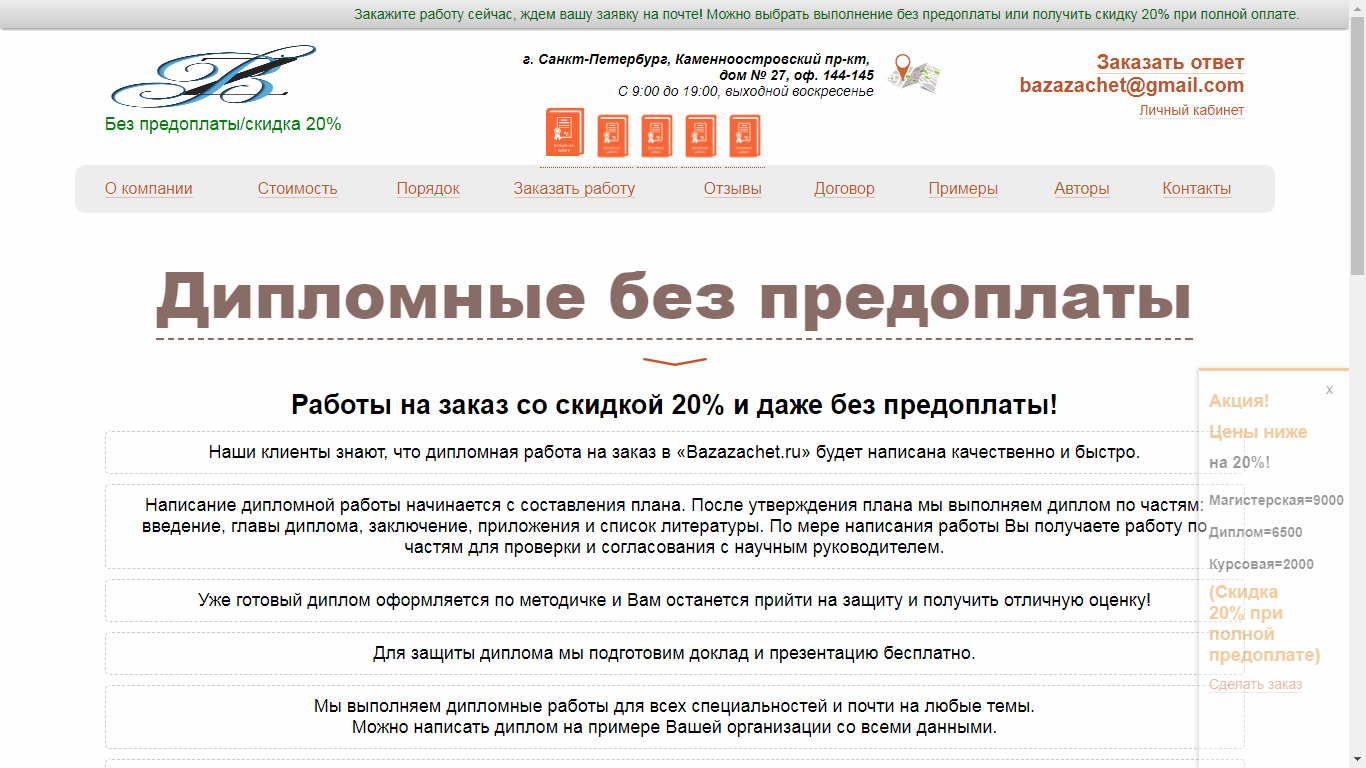
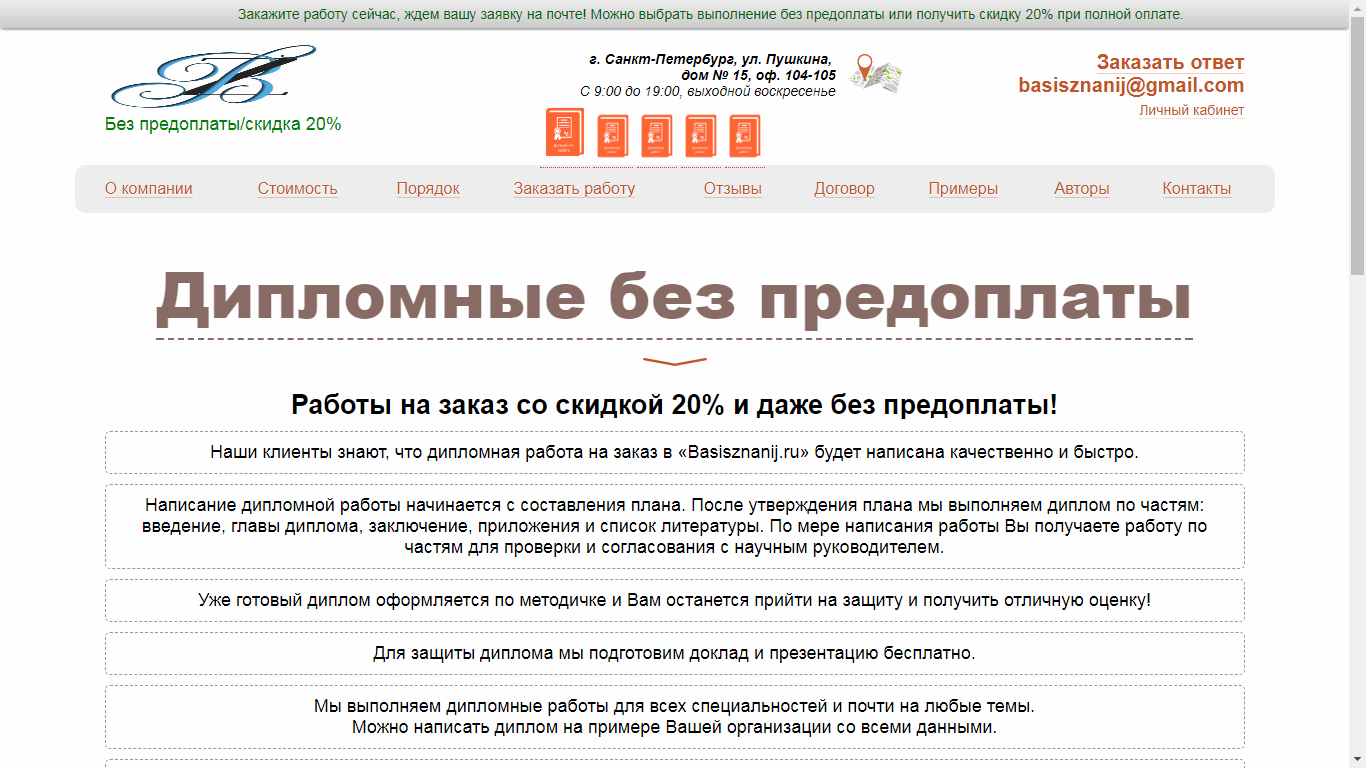
1

diff --git a/requisites.php b/requisites.php
@@ -3,18 +3,18 @@
 date_default_timezone_set('Europe/Moscow');
 $datetime_site = date("Y-m-d H:i:s");
 
-$main_name = 'http://vivamagister.ru';//'http://vivastudent.ru';
+$main_name = 'http://viva-magisters.ru';
 $donor_name = 'http://xn--d1acynfdde.xn--p1ai';
 $donor_site_name = 'Студенту.рф';
 $site_name = "Студенческие работы";
 
 
-$raskrutka_site_1 = 'bazazachet.ru';//'bazaznanij.com';
-$raskrutka_site_2 = 'Bazazachet';//'Bazaznanij';
-$raskrutka_site_3 = 'BAZAZACHET.RU';//'BAZAZNANIJ.COM';
-$raskrutka_site_4 = 'bazazachet_ru';//'bazaznanij_com';
+$raskrutka_site_1 = 'basisznanij.ru';//'bazaznanij.com';
+$raskrutka_site_2 = 'Basisznanij';//'Bazaznanij';
+$raskrutka_site_3 = 'BASISZNANIJ.RU';//'BAZAZNANIJ.COM';
+$raskrutka_site_4 = 'basisznanij_ru';//'bazaznanij_com';
 
-$raskrutka_site_adress = 'г. Санкт-Петербург</span>, <span itemprop="streetAddress">Каменноостровский пр-кт, дом № 27, oф. 144-145';
+$raskrutka_site_adress = 'г. Санкт-Петербург</span>, <span itemprop="streetAddress">ул. Пушкина, дом № 15, oф. 104-105';
 
 $yandex_google = '<meta name="yandex-verification" content="c501f550de5d69b6" />
 <meta name="google-site-verification" content="nYwj09iau7v7Ip_GwGkyoRskEb1IHPTjWfv-QUb9m2I" />

diff --git a/router.php b/router.php
@@ -90,8 +90,8 @@ $mainContent = str_replace('Rosdiplom', $raskrutka_site_2, $mainContent  );
 $mainContent = str_replace('г. Москва</span>, <span itemprop="streetAddress">ст.м. Метро Сухаревская, ул.Сретенка, д.27/29, стр 1',
     $raskrutka_site_adress, $mainContent  );
 $mainContent = str_replace('8-800-555-05-66: +7 (495) 987-41-36', 'Компания работает без телефонных менеджеров', $mainContent  );
-$mainContent = str_replace('/goto.php?url=cm9zZGlwbG9tLnN1', 'http://'.$raskrutka_site_1.'/', $mainContent  );
-$mainContent = str_replace('/goto.php?url=aHR0cHM6Ly9yb3NkaXBsb20uc3UvcmVmZXJlci5hc3B4P3JlZj1zdHVkZW50dQ==', 'http://'.$raskrutka_site_1.'/order.php', $mainContent  );
+$mainContent = str_replace('/goto.php?url=cm9zZGlwbG9tLnN1', 'https://'.$raskrutka_site_1.'/', $mainContent  );
+$mainContent = str_replace('/goto.php?url=aHR0cHM6Ly9yb3NkaXBsb20uc3UvcmVmZXJlci5hc3B4P3JlZj1zdHVkZW50dQ==', 'https://'.$raskrutka_site_1.'/order.php', $mainContent  );
 
 $mainContent = str_replace('rosdiplom_ru', $raskrutka_site_4, $mainContent  );
 $mainContent = str_replace('Публикации</a>', '</a>', $mainContent  );
